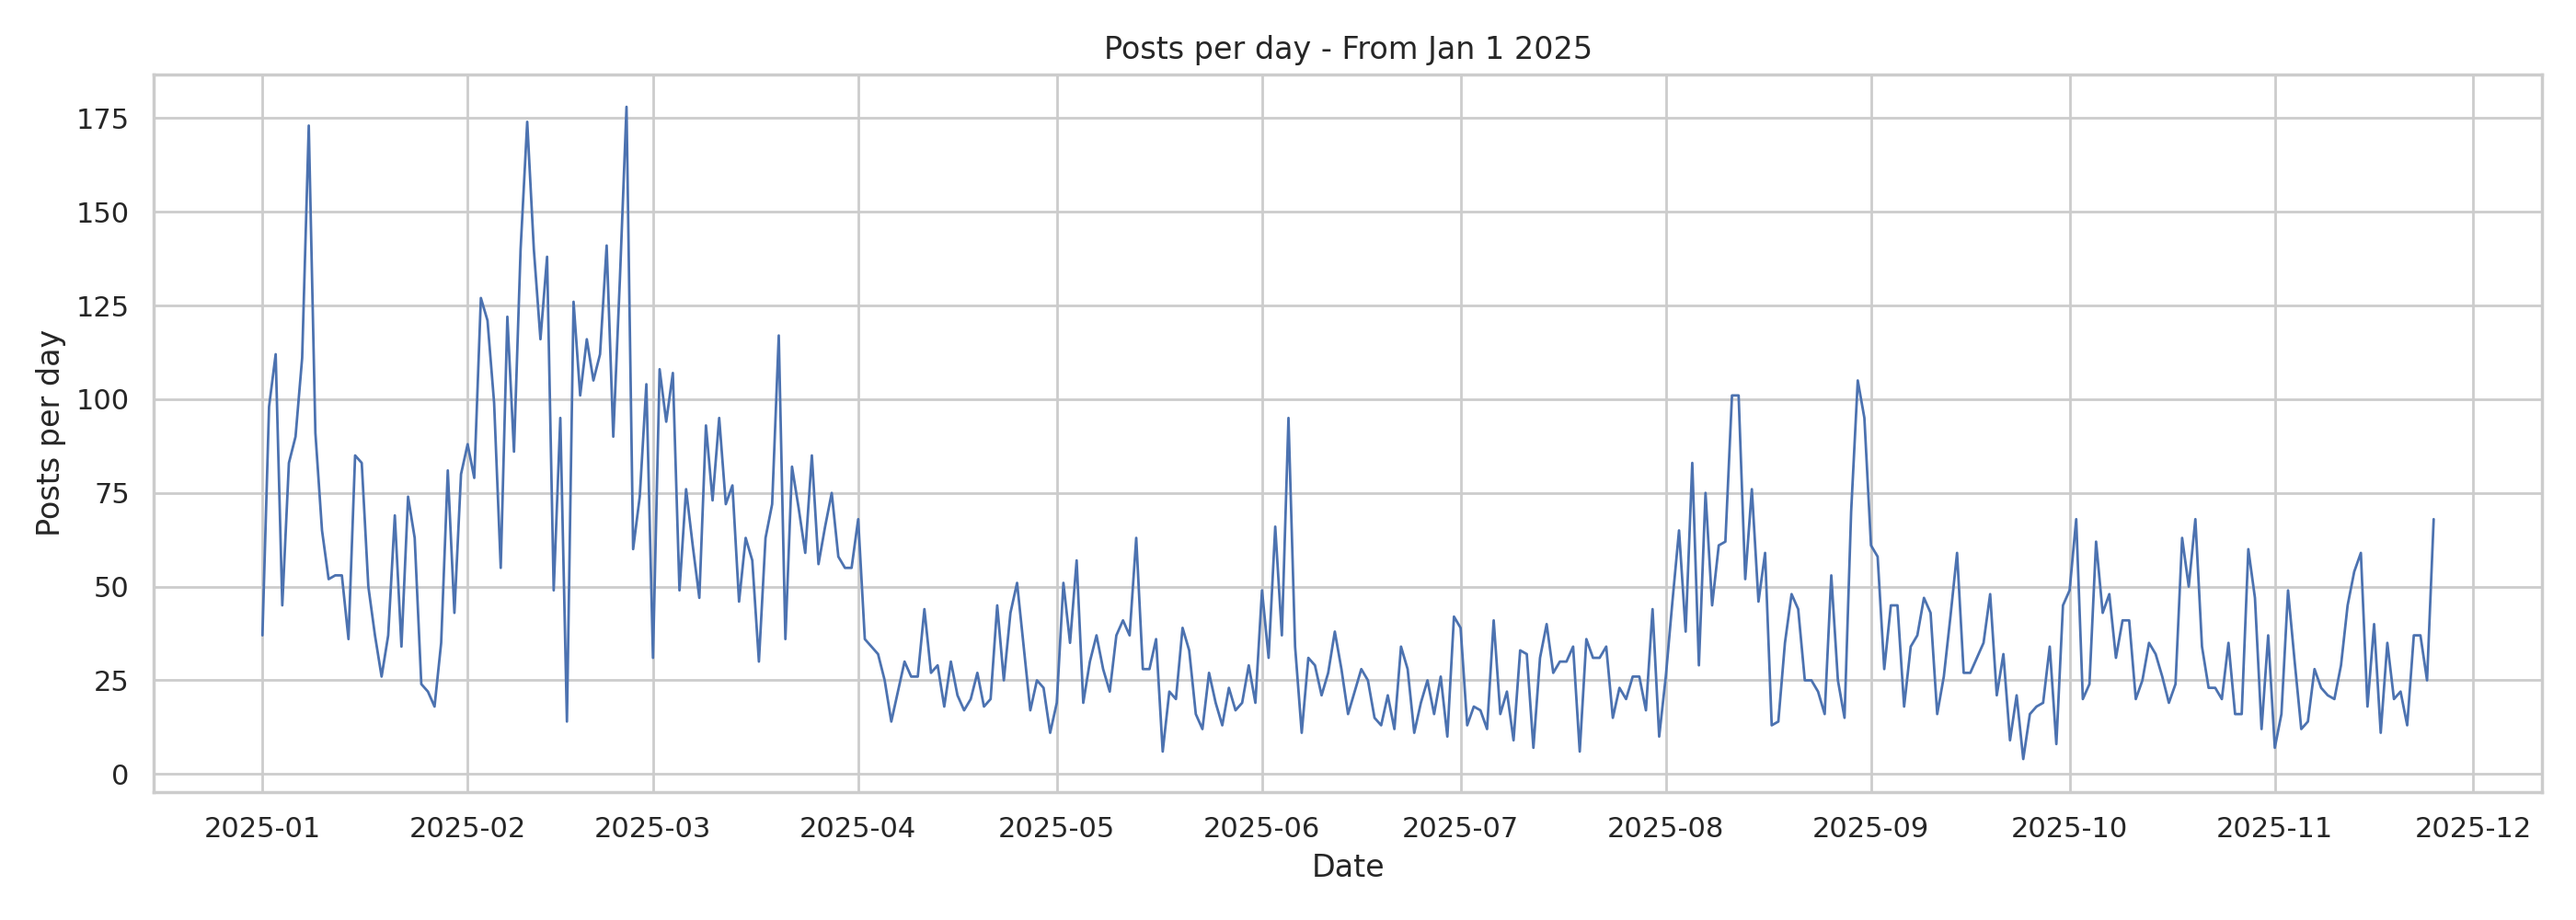
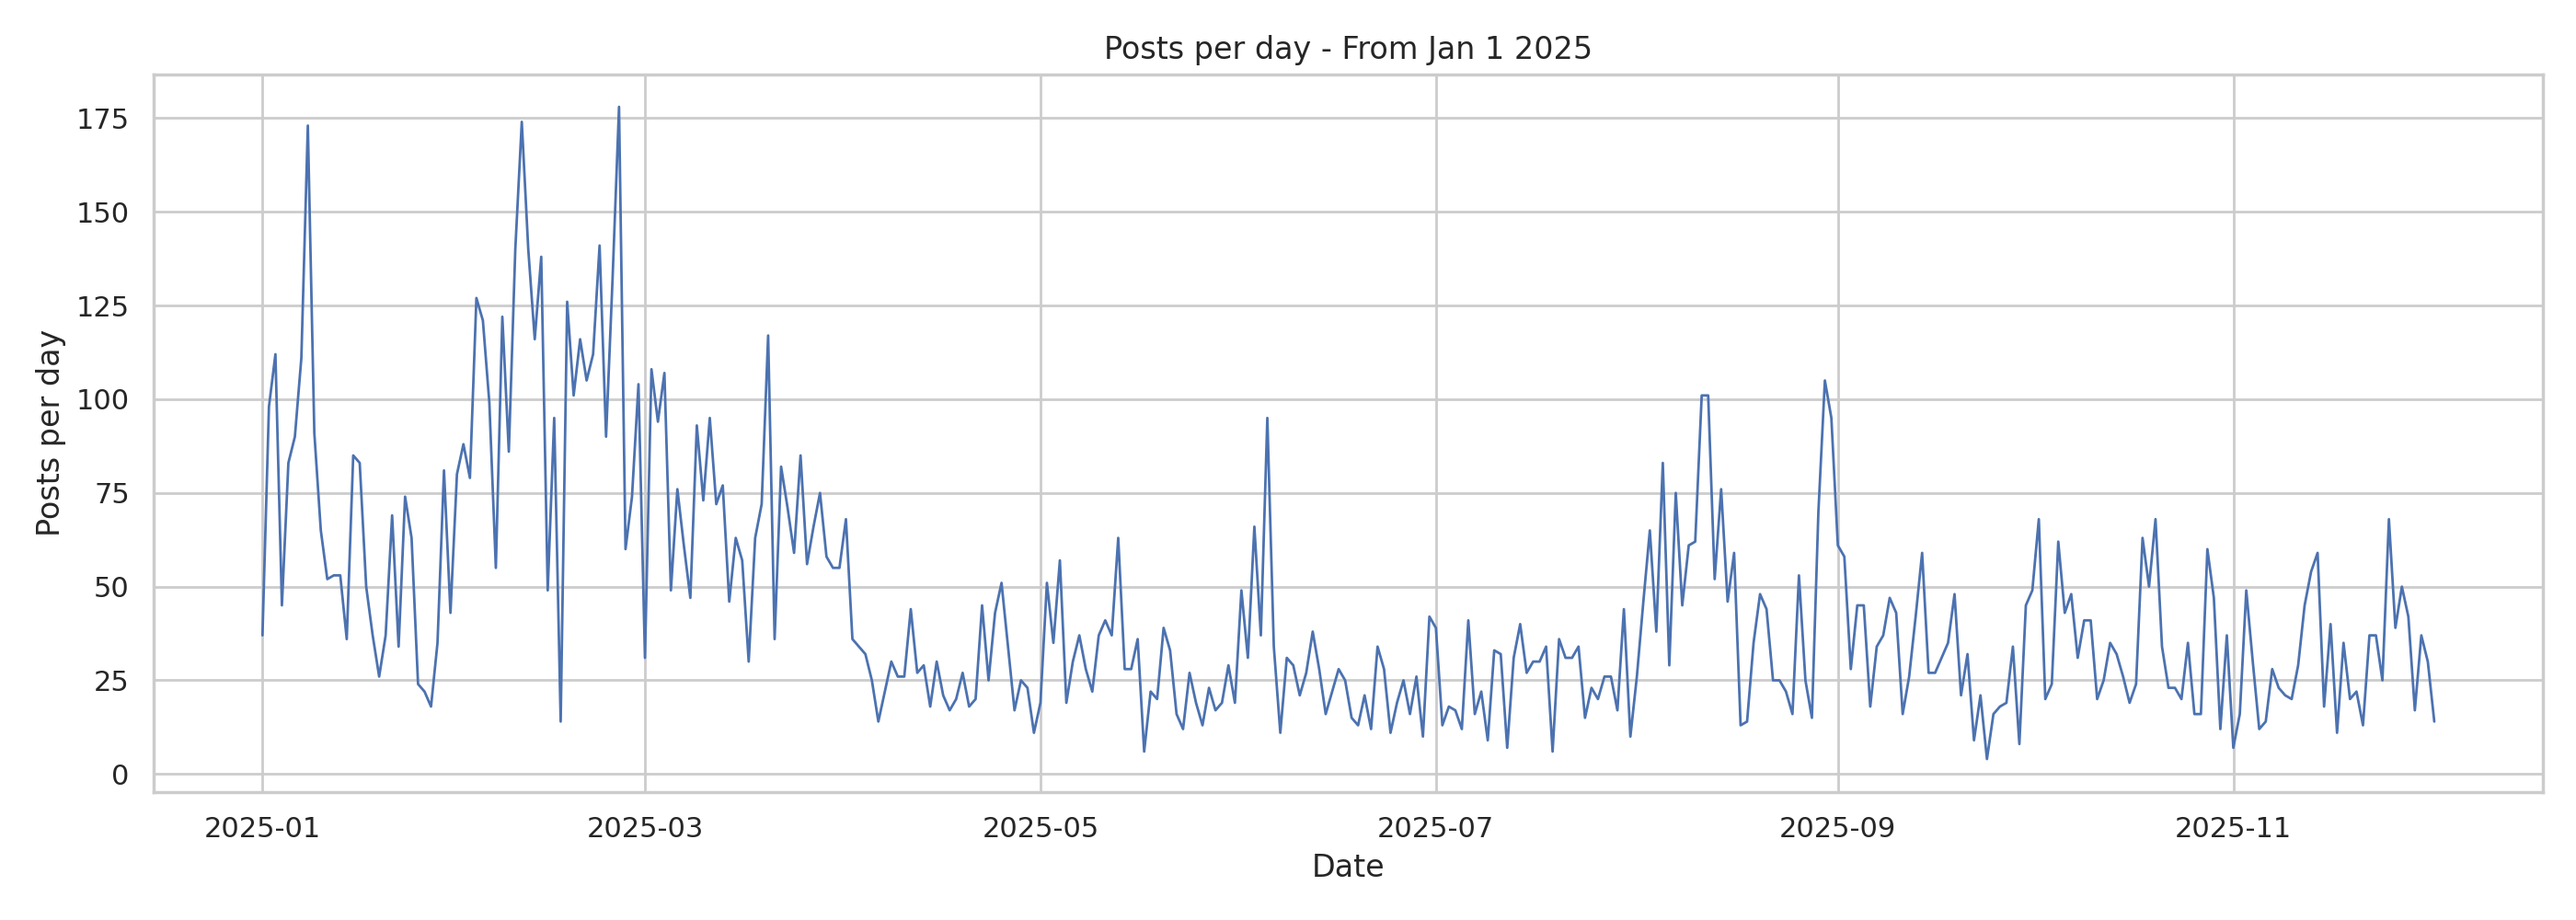
Improve CLI parsing and docs

diff --git a/analysis.py b/analysis.py
@@ -9,6 +9,7 @@ tables printed to stdout plus PNG charts for each window.
 
 from __future__ import annotations
 
+import argparse
 import numpy as np
 import pandas as pd
 import seaborn as sns
@@ -21,24 +22,82 @@ from pandas.api import types as ptypes
 
 sns.set_theme(style="whitegrid")
 
-WINDOW_START = pd.Timestamp("2025-11-25", tz="UTC")
-WINDOW_END = pd.Timestamp("2025-12-02", tz="UTC")
-TIME_REMAINING = pd.Timedelta(days=4, hours=2)
-KNOWN_TOTAL = 135  # posts already counted inside the market window
+DEFAULT_WINDOW_START = "2025-11-28"
+DEFAULT_WINDOW_END = "2025-12-09"
+DEFAULT_TIME_REMAINING = "7D"
+DEFAULT_KNOWN_TOTAL = 0
 
-window_end_exclusive = WINDOW_END + pd.Timedelta(days=1)
-CURRENT_TIMESTAMP = window_end_exclusive - TIME_REMAINING
-if CURRENT_TIMESTAMP.tzinfo is None:
-    CURRENT_TIMESTAMP = CURRENT_TIMESTAMP.tz_localize("UTC")
 
-print(
-    f"Using implied current timestamp {CURRENT_TIMESTAMP:%Y-%m-%d %H:%M %Z}"
-    f" based on {TIME_REMAINING} remaining until end-of-day {WINDOW_END.date()}."
-)
+def ensure_utc(ts: str | pd.Timestamp, label: str) -> pd.Timestamp:
+    """Parse timestamps and guarantee UTC timezone awareness."""
+    try:
+        parsed = pd.Timestamp(ts)
+    except Exception as exc:  # pragma: no cover - defensive
+        raise ValueError(f"Invalid value for {label}: {ts}") from exc
+    if parsed.tzinfo is None:
+        return parsed.tz_localize("UTC")
+    return parsed.tz_convert("UTC")
+
+
+def parse_cli_args() -> argparse.Namespace:
+    parser = argparse.ArgumentParser(description="Configure forecast horizon inputs.")
+    parser.add_argument(
+        "--window-start",
+        default=DEFAULT_WINDOW_START,
+        help="Start date (UTC) of the forecast window, e.g. 2025-11-28.",
+    )
+    parser.add_argument(
+        "--window-end",
+        default=DEFAULT_WINDOW_END,
+        help="End date (UTC) of the forecast window, e.g. 2025-12-09.",
+    )
+    parser.add_argument(
+        "--time-remaining",
+        default=DEFAULT_TIME_REMAINING,
+        help="Time remaining until window end (pandas Timedelta string, e.g. '2D12H').",
+    )
+    parser.add_argument(
+        "--known-total",
+        "--current-total",
+        type=int,
+        default=DEFAULT_KNOWN_TOTAL,
+        dest="known_total",
+        help="Posts already counted inside the window.",
+    )
+    parser.add_argument(
+        "--current-timestamp",
+        help="Explicit timestamp for the latest counted post (UTC). Overrides time-remaining logic.",
+    )
+    return parser.parse_args()
+
+
+args = parse_cli_args()
+WINDOW_START = ensure_utc(args.window_start, "window-start")
+WINDOW_END = ensure_utc(args.window_end, "window-end")
+time_remaining_literal = args.time_remaining.replace("H", "h")
+TIME_REMAINING = pd.Timedelta(time_remaining_literal)
+KNOWN_TOTAL = int(args.known_total)
+
+if args.current_timestamp:
+    CURRENT_TIMESTAMP = ensure_utc(args.current_timestamp, "current-timestamp")
+    print(
+        f"Using provided current timestamp {CURRENT_TIMESTAMP:%Y-%m-%d %H:%M %Z};"
+        f" ignoring --time-remaining ({TIME_REMAINING})."
+    )
+else:
+    window_end_exclusive = WINDOW_END + pd.Timedelta(days=1)
+    CURRENT_TIMESTAMP = window_end_exclusive - TIME_REMAINING
+    print(
+        f"Using implied current timestamp {CURRENT_TIMESTAMP:%Y-%m-%d %H:%M %Z}"
+        f" based on {TIME_REMAINING} remaining until end-of-day {WINDOW_END.date()}."
+    )
 
 MANUAL_PARSE_NAME = "elonmusk (2).csv"
 SOURCE_TZ = "America/New_York"
 DATA_CANDIDATES = [Path(MANUAL_PARSE_NAME), Path("elon_posts.csv"), Path("all_musk_posts.csv")]
+MANUAL_DAILY_COUNTS_PATH = Path(
+    "elonmusk-Elon_Musk___tweets_November_25___December_2__2025_-daily-metrics.csv"
+)
 for candidate in DATA_CANDIDATES:
     if candidate.exists():
         DATA_PATH = candidate
@@ -102,8 +161,11 @@ def _parse_three_field_csv(path: Path) -> pd.DataFrame:
 if DATA_PATH.name == MANUAL_PARSE_NAME:
     df = _parse_three_field_csv(DATA_PATH)
     print(f"Parsed {len(df):,} rows from manual three-field CSV")
+    created_str = df["created_at"].astype(str).str.strip()
+    created_str = created_str.str.replace(r"\s+[A-Z]{2,4}$", "", regex=True)
     dt_series = pd.to_datetime(
-        df["created_at"].str.strip() + " 2025",
+        created_str + " 2025",
+        format="%b %d, %I:%M:%S %p %Y",
         errors="coerce",
     )
     if dt_series.isna().any():
@@ -126,6 +188,62 @@ def str_to_bool(series: pd.Series) -> pd.Series:
     """Convert string/object True/False/NaN flags to booleans."""
     lowered = series.astype(str).str.lower()
     return lowered == "true"
+
+
+def load_manual_daily_counts(path: Path) -> pd.DataFrame | None:
+    """Load date-level post counts supplied manually for dates beyond the raw export."""
+    if not path.exists():
+        return None
+
+    manual = pd.read_csv(path)
+    expected_cols = {"date", "posts"}
+    if not expected_cols.issubset(manual.columns):
+        cols = ", ".join(manual.columns)
+        raise ValueError(
+            f"Manual daily counts file must contain columns {expected_cols}, found: {cols}"
+        )
+
+    manual["date"] = pd.to_datetime(manual["date"], utc=True, errors="coerce")
+    manual["date"] = manual["date"].dt.tz_convert("UTC")
+    manual["posts"] = pd.to_numeric(manual["posts"], errors="coerce")
+    manual = manual.dropna(subset=["date", "posts"])
+    manual = manual[manual["posts"] > 0]
+    if manual.empty:
+        return None
+
+    manual = manual.sort_values("date")
+    return manual[["date", "posts"]]
+
+
+def synthesize_manual_posts(
+    manual: pd.DataFrame, cutoff_ts: pd.Timestamp | None
+) -> pd.DataFrame | None:
+    """Expand daily aggregate counts into synthetic rows for resampling."""
+    manual = manual.copy()
+    if cutoff_ts is not None:
+        cutoff_date = cutoff_ts.date()
+        manual = manual[manual["date"].dt.date > cutoff_date]
+    if manual.empty:
+        return None
+
+    expanded_rows = []
+    for record in manual.itertuples(index=False):
+        base_ts = record.date.normalize()
+        count = int(record.posts)
+        for idx in range(count):
+            expanded_rows.append(
+                {
+                    "id": f"manual-{base_ts.date()}-{idx+1}",
+                    "text": "",
+                    "createdAt": base_ts + pd.Timedelta(minutes=idx),
+                }
+            )
+
+    if not expanded_rows:
+        return None
+
+    manual_df = pd.DataFrame(expanded_rows)
+    return manual_df
 
 # --- Task 1: Market rule filters -----------------------------------------
 # Rule mapping notes:
@@ -159,8 +277,23 @@ else:
     print("\nDataset lacks reply/quote/retweet flags; using all rows without additional filtering.")
     filtered = df.copy()
 
+manual_counts = load_manual_daily_counts(MANUAL_DAILY_COUNTS_PATH)
+manual_extension = None
+if manual_counts is not None:
+    latest_observed = filtered["createdAt"].max() if not filtered.empty else None
+    manual_extension = synthesize_manual_posts(manual_counts, latest_observed)
+    if manual_extension is not None:
+        filtered = pd.concat([filtered, manual_extension], ignore_index=True)
+        print(
+            f"Injected {len(manual_extension)} synthetic posts sourced from {MANUAL_DAILY_COUNTS_PATH.name}."
+        )
+    else:
+        print("Manual daily counts present but no rows beyond observed data were added.")
+else:
+    print("No manual daily counts file found; proceeding with raw export only.")
+
 # --- Task 2+: Daily counts + modeling sensitivity -----------------------
-if ptypes.is_datetime64tz_dtype(filtered["createdAt"]):
+if isinstance(filtered["createdAt"].dtype, pd.DatetimeTZDtype):
     filtered["createdAt"] = filtered["createdAt"].dt.tz_convert("UTC")
 else:
     filtered["createdAt"] = pd.to_datetime(filtered["createdAt"], utc=True, errors="coerce")

diff --git a/README.md b/README.md
@@ -6,6 +6,7 @@ Questo repository contiene due script Python pensati per analizzare la frequenza
 ## Struttura dei dati
 - `elonmusk (2).csv`: esportazione manuale con tre colonne (id, body, created_at) prive di quoting standard.
 - `elon_posts.csv` / `all_musk_posts.csv`: eventuali esportazioni alternative con schema standard.
+- `elonmusk-Elon_Musk___tweets_November_25___December_2__2025_-daily-metrics.csv`: file con conteggi giornalieri manuali (vedi sezione dedicata) per coprire giorni successivi all'ultimo export grezzo.
 - `horizon_summary.csv`: tabella prodotta da `horizon_stats.py` con metriche aggregate per piu' orizzonti temporali.
 - `daily_counts_*.png`: grafici creati da `analysis.py` per ogni finestra considerata.
 
@@ -32,9 +33,15 @@ Questo repository contiene due script Python pensati per analizzare la frequenza
 ## Come eseguire
 ```bash
 pip install -r requirements.txt  # oppure installa manualmente i pacchetti richiesti
-python analysis.py
+python analysis.py --window-start 2025-11-28 --window-end 2025-12-09 --time-remaining 7D --known-total 0
 python horizon_stats.py
 ```
+
+`analysis.py` ora espone tutti i parametri principali via CLI:
+- `--window-start` / `--window-end`: estremi (UTC) della finestra da simulare.
+- `--time-remaining`: durata che separa "adesso" dalla fine finestra (Timedelta tipo `3D12H`).
+- `--known-total`: post gia' contati nella finestra (sottratti ai forecast).
+- `--current-timestamp`: in alternativa a `--time-remaining`, passa l'istante UTC dell'ultimo post censito.
 
 Entrambi gli script scrivono i risultati nella radice del progetto. `analysis.py` mostra stampe verbose: per ridurre l output e' possibile commentare alcune `print` oppure reindirizzare lo stdout su file.
 
@@ -42,6 +49,15 @@ Entrambi gli script scrivono i risultati nella radice del progetto. `analysis.py
 1. Scarica un nuovo CSV con le tre colonne richieste e rinominalo in `elonmusk (2).csv`.
 2. Verifica che i timestamp riportino mese, giorno e orario nel fuso di New York.
 3. Lancia gli script per rigenerare grafici e tabelle.
+
+### Aggiornare manualmente i giorni piu' recenti
+Quando l export completo non e' ancora disponibile, utilizza `elonmusk-Elon_Musk___tweets_November_25___December_2__2025_-daily-metrics.csv` come diario giornaliero:
+
+1. Ogni riga segue il formato `YYYY-MM-DD,POSTS,cumulative_posts`. Il terzo campo e' opzionale: se vuoi puoi aggiornarlo con la somma progressiva, ma il software usa solo la colonna `posts`.
+2. Aggiungi (o modifica) una riga per ogni data oltre l ultimo giorno contenuto in `elonmusk (2).csv`. `analysis.py` ignora automaticamente le date gia' coperte dal dataset grezzo, quindi non rischi doppi conteggi.
+3. Salva il file in CSV (testo semplice, separatore `,`). Alla successiva esecuzione, lo script generera' tweet sintetici per quei giorni cosi' da includerli nelle medie giornaliere e nelle simulazioni.
+
+In questo modo ti basta appendere due numeri per giorno: non servono ID dei singoli post. Quando l export completo sara' disponibile potrai sostituire `elonmusk (2).csv` e svuotare (o aggiornare) il file manuale.
 
 ## Risoluzione problemi
 - **File mancante**: se nessun CSV viene trovato, assicurati che almeno uno dei percorsi in `DATA_CANDIDATES` esista.
